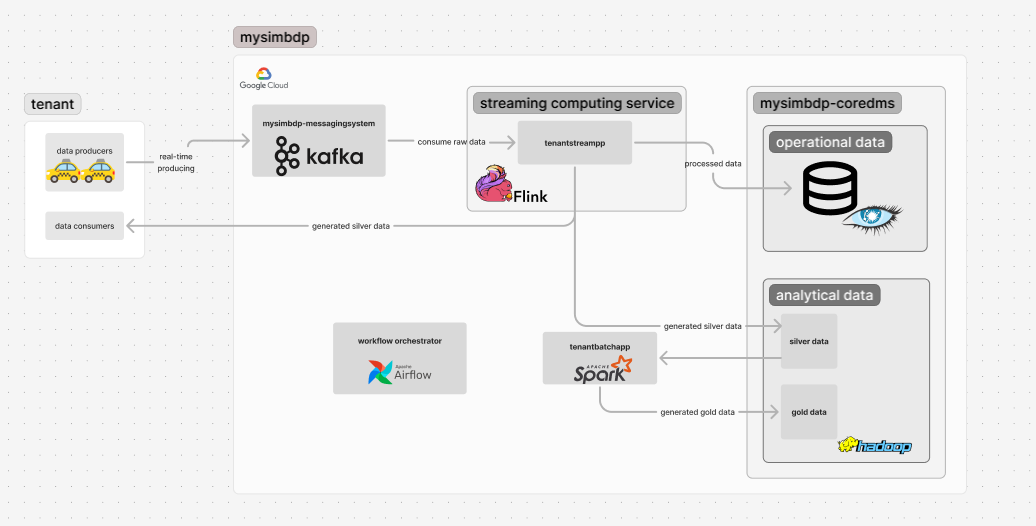
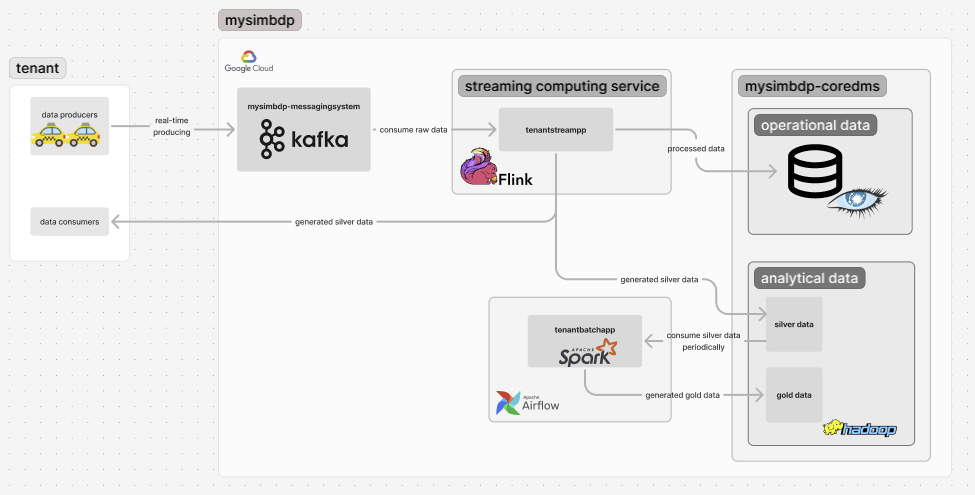
add some answers

Changed region(s): [[0.0, 0.0, 0.9231, 0.9394], [0.3077, 0.6061, 0.4615, 0.7576], [0.4923, 0.7879, 0.6769, 0.8788]]

diff --git a/assignment-3-894931/reports/Assignment-3-Report.md b/assignment-3-894931/reports/Assignment-3-Report.md
@@ -95,9 +95,105 @@ Input streaming data has the following schema:
 }
 ```
 
+For the tenantstreamapp to be able to correctly generate the analytics from the streaming data, the input data must contain the following values. Pickup community area is essential, as it is used for the main analytics, which is the number of trips per pickup area over time. Obviously, the trip start time is also crucial. Other value used for the analytics is the trip total fare, but it is not enforced, as the main on-demand analytics can be generated without the trip costs. The times are expected to be in format "2025-03-27T09:59:22Z", from where it is assigned as the timestamp and changed to integer timestamp format.
+
+The generated output analytics silver data is in following format:
+
+| pickup location  | amount of trips | total fares | start          | end            |
+|-----|----------|-----------|---------------|---------------|
+| 32   | 7       | 252.50    | 1743076720000 | 1743076720000 |
+| 2   | 2        | 22.15    | 1743076720000 | 1743076720000 |
+
+The data is inserted into the silver data storage without the headers.
+
+The input data from Kafka producers is serialized into bytes. The tenantstreamapp Flink application deserealises the data into string format, without enforcing any schema. Then the tenantstreamapp validates the schema, by checking if the data contains the needed values. If trip total is missing, it is simply inserted to 0. After generating the analytics over the tumbling window, the resulting Flink Row-format data is serialized into string-format, and inserted into the HDFS silver data storage.
+
+TODO data sent back to tenant
+
 ### 2.2 Tenantbatchapp
 
+The tenant implementation for batch analytics is the tenantbatchapp component, which is a Spark job. The component takes as input the generated silver data and produces gold data, which is more defined analytical data. The component sums up the fares and number of trips of the silver data. The batch analytics service provided by the platform is implemented with Apache Spark, which is a distributed computing framework for fast and large-scale data processing, especially for batch workloads. The platform hosts a Spark processing engine, and the tenantbatchapps are executed by submitting the application as Spark job to the platform engine. The tenantbatchapp is ran periodically. The component consumes all the latest generated silver data from the HDFS silver data storage. An example configuration could be that tenantstreamapp produces silver data records, which contain taxi trips statistics of an 1 hour window of different locations. Then the batch analytics component could consume the generated silver data every 24 hours, generating more detailed taxi trip statistics, enabling more in-depth, long term analysis.
+
+The batch analytics component workflow is the following. First the platform checks for new untouchable input silver data from HDFS silver data storage. If new data is not found, the platform will stop the workflow exetution, and wait for predefined time interval, before starting the workflow again. In this small scale context, we will halt for 1 minute, but in production the interval could be for example from 10 minutes to 1 hour. If new input data is found, the workflow stores the file locations, and moves the execution to the tenantbatchapp-component, which gets the input files. Then the tenantbatchapp job is submitted to the Spark engine with the input files. After the batch analytics component has produced the gold data, the final workflow step begins. In this step the platform modifies the processed silver data file names to include a mark, that the file is processed. The file name will be transformed from "silverdata.csv" to "silverdata_processed.csv". This last step makes sure that the tenantbatchapp does not process the same silver data twice and produce incorrect, misleading analytics.
+
+The underlying workflow orchestrator is implemented with Apache Airflow, which is a platform for automating and managing data pipelines. Airflow works by concepts of directed acyclic graphs with each task containing possible dependencies to others. The batch analytics workflow is defined in Airflow, and it is scheduled to run every minute. Again, of course, in a real production environment this schedule would be different.
+
 ### 2.3 Performance testing
+
+The test environment for testing the streaming analytics contains tenant data producers, tenantstreamapp, coredms analytical data storage HDFS for silver (and gold data). The streaming data is simulated by reading the Chicago Taxi Trip data and sending data row by row to the Kafka topic. As the timestamps of the dataset are rounded to fiveteen minutes, for more realistic scenario we will use the current time minus fiveteen minutes for the trip start time. The end time will be the current time, which means that each trip is 15 minutes long, but as the end time is not used the in the analytics this uncommonness wont matter.
+
+As the main focus of this testing is the streaming analytics, we will not be storing the operational data into Cassandra data storage, and we will not be performing the batch analytics.
+
+We have the following configurations:
+
+* 2 kafka brokers
+* topic partioined into 2
+* replication factor of 2
+* flink job parallellism of 1
+
+We will start the testing by using 1 producer producing record of data every second. The output silver data should contain close to 60 total trips per one output file. We use tumbling window of 20 seconds.
+
+After producing for 104 seconds, with 100 messages sent, we have the following silver data:
+![test silver 1](../images/test_silver1.png)
+
+The contents of one file were:
+
+
+| pickup location  | amount of trips | total fares | start          | end            |
+|-----|----------|-----------|---------------|---------------|
+|8|4|49.42|1743088220000|1743088240000|
+|76|3|252.88|1743088220000|1743088240000|
+|56|1|58.5|1743088220000|1743088240000|
+|28|2|54.2|1743088220000|1743088240000|
+|21|1|3.25|1743088220000|1743088240000|
+|50|1|31.75|1743088220000|1743088240000|
+|22|1|32.75|1743088220000|1743088240000|
+|38|1|30.5|1743088220000|1743088240000|
+|32|5|nan|1743088220000|1743088240000|
+
+We can see that the total number of trips was 19, which is expectable in the 20 second tumbling window.
+CPU and memory usage both rose up approximately 10 %.
+
+For the next test, we will use tumbling window of 60 seconds, 1 producer producing two messages per second.
+mem 74, cpu 20
+
+After running for 150 seconds, we have tree silver data outputs as expected. Each contains the expected data. CPU and memory rose up the same 10 %.
+
+Next test will be 2 producers producing 10 messages a second (20msg total / s).
+
+After running for 120 seconds, output files are as expected. CPU and memory again 10 &.
+
+Next test will be 5 producers, each producing 10 messages a second (50 msg total / s)
+After running for 2 minutes.
+CPU raised 20 %.
+The data is starting to show meaningful statistics:
+
+Top areas:
+
+| pickup location  | amount of trips | total fares | start          | end            |
+|-----|----------|-----------|---------------|---------------|
+|76|273|nan|1743090780000|1743090840000|
+|32|183|nan|1743090780000|1743090840000|
+
+Opposed to lowest:
+
+| pickup location  | amount of trips | total fares | start          | end            |
+|-----|----------|-----------|---------------|---------------|
+|15|1|31.25|1743090780000|1743090840000|
+|30|1|12.75|1743090780000|1743090840000|
+
+Next test 5 producers producing 20 messages a second (total 100 msg / s)
+
+CPU rose up to 50 %. 
+
+Next test 5 producers producing without sleep
+
+Aftering producing for a little over 2 minutes, the platform started to halt. As we are running locally, we cannot say which component was the first to freeze. It is Kafka or the Flink. But, because HDFS contains only 2 silver data files, we can assume that the flink job freezed as it should have started writing to the third file as the third window was started. 
+
+The CPU raised up to 100 %. Memory raised only 10 %.
+
+The log file *silver_data_final_test.log contains the result of second of the silver data outputs. The most number of trips per area was approximately 8500, while the lowest has single ones. In this kind of small simulated test environment where the tests were run for couple of minutes, not very detailed analytics can be made (can't take into account real time of trip, events in the city, weather etc.), but this shows that if the silver data was for example for 15 minutes of trips, the data would contain useful information for analytics.
+
 
 ### 2.4 Wrong data
 
